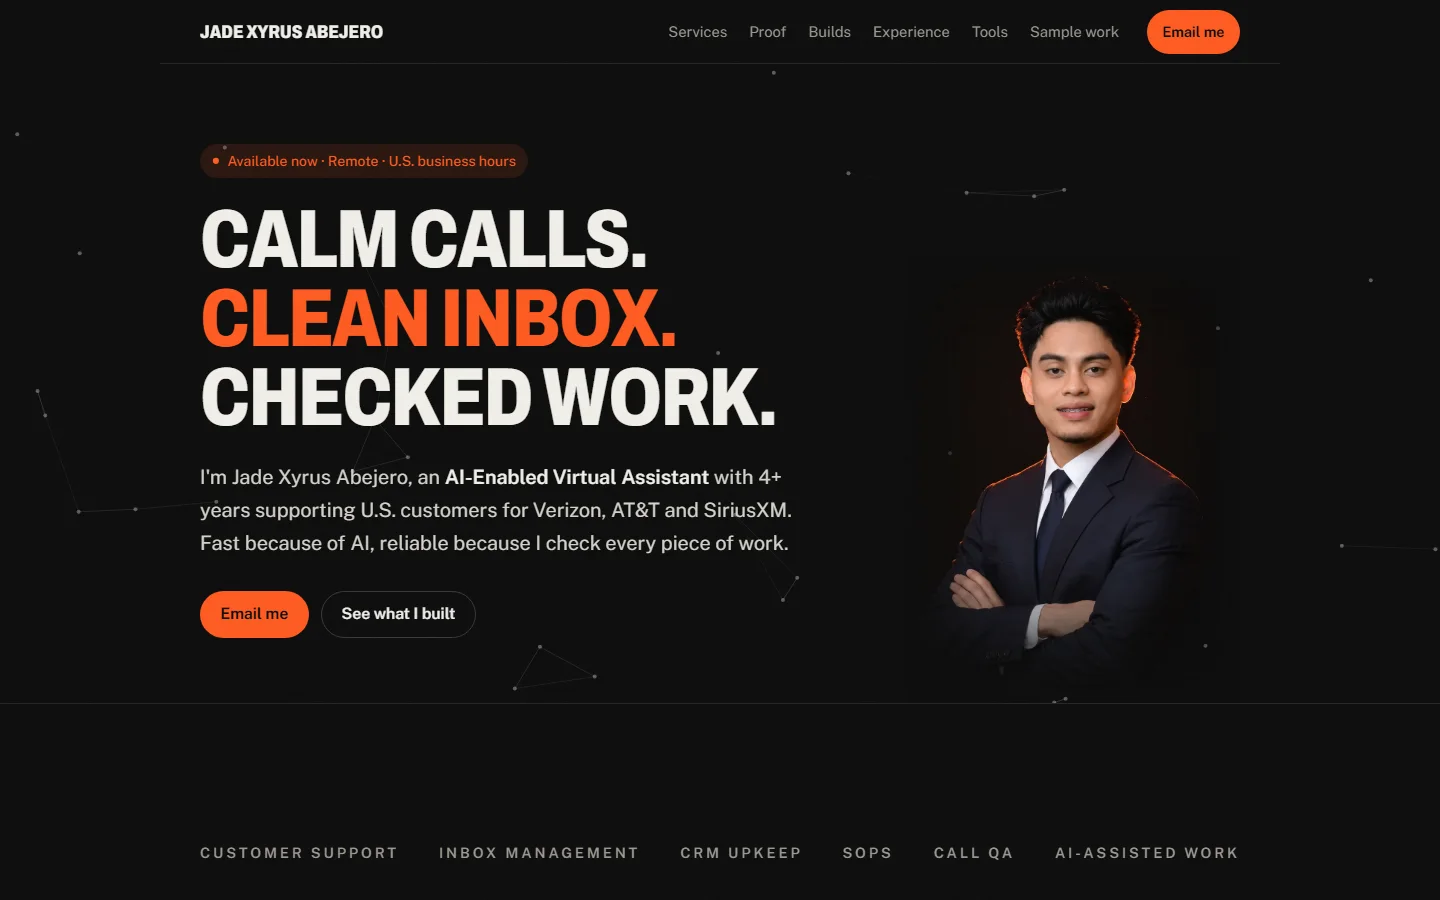
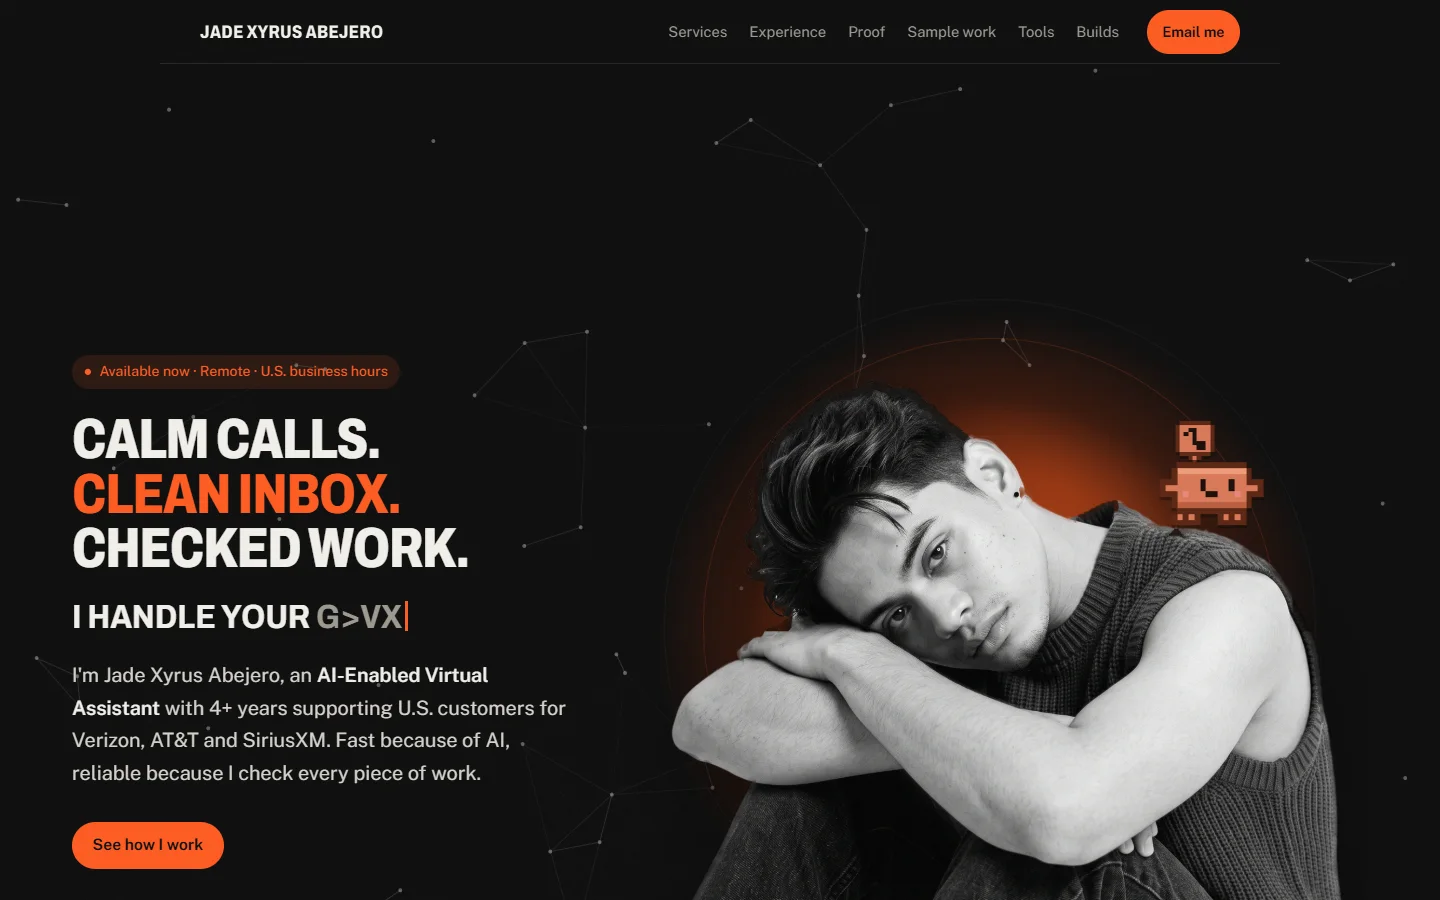
Hero edge fringe fix (hand, shoulder); buddy > < eyes on heart; new portfolio card photo

diff --git a/assets/v4.js b/assets/v4.js
@@ -281,7 +281,8 @@ document.addEventListener('click', (e) => {
   const COL = { D: '#5A2410', L: '#EE9A78', O: '#D97757', S: '#B95D3E', P: '#E9867A' };
   b.innerHTML = `<span class="bub" aria-hidden="true"></span><svg viewBox="0 0 18 11" shape-rendering="crispEdges">${px(BODY, COL)}
     <rect class="pupil" data-x="6" x="6" y="3" width="1.02" height="2.02" fill="#1A0C06"/><rect class="pupil" data-x="11" x="11" y="3" width="1.02" height="2.02" fill="#1A0C06"/>
-    <rect class="mouth" x="8" y="5" width="2.02" height="1.02" fill="#1A0C06"/></svg>`;
+    <rect class="mouth" x="8" y="5" width="2.02" height="1.02" fill="#1A0C06"/>
+    <g class="squint" fill="#1A0C06"><rect x="5" y="2.5" width="1.02" height="1.02"/><rect x="6" y="3.5" width="1.02" height="1.02"/><rect x="5" y="4.5" width="1.02" height="1.02"/><rect x="12" y="2.5" width="1.02" height="1.02"/><rect x="11" y="3.5" width="1.02" height="1.02"/><rect x="12" y="4.5" width="1.02" height="1.02"/></g></svg>`;
   // pixel speech bubble: stepped corners, thin dark border, orange fill, 5x5 glyph
   const GLYPH = {
     '?': ['.###.', '....#', '..##.', '.....', '..#..'],

diff --git a/assets/v4.css b/assets/v4.css
@@ -681,3 +681,8 @@ html{scroll-snap-type:y proximity}
   .steps-guide li{flex:1;min-width:0;padding:8px 8px!important;font-size:.72rem!important;line-height:1.25}
   .smart{padding:12px 14px}
 }
+
+/* buddy: heart action shows > < eyes */
+.buddy .squint{opacity:0}
+.buddy.a-cute .squint{opacity:1}
+.buddy.a-cute .pupil{opacity:0}
